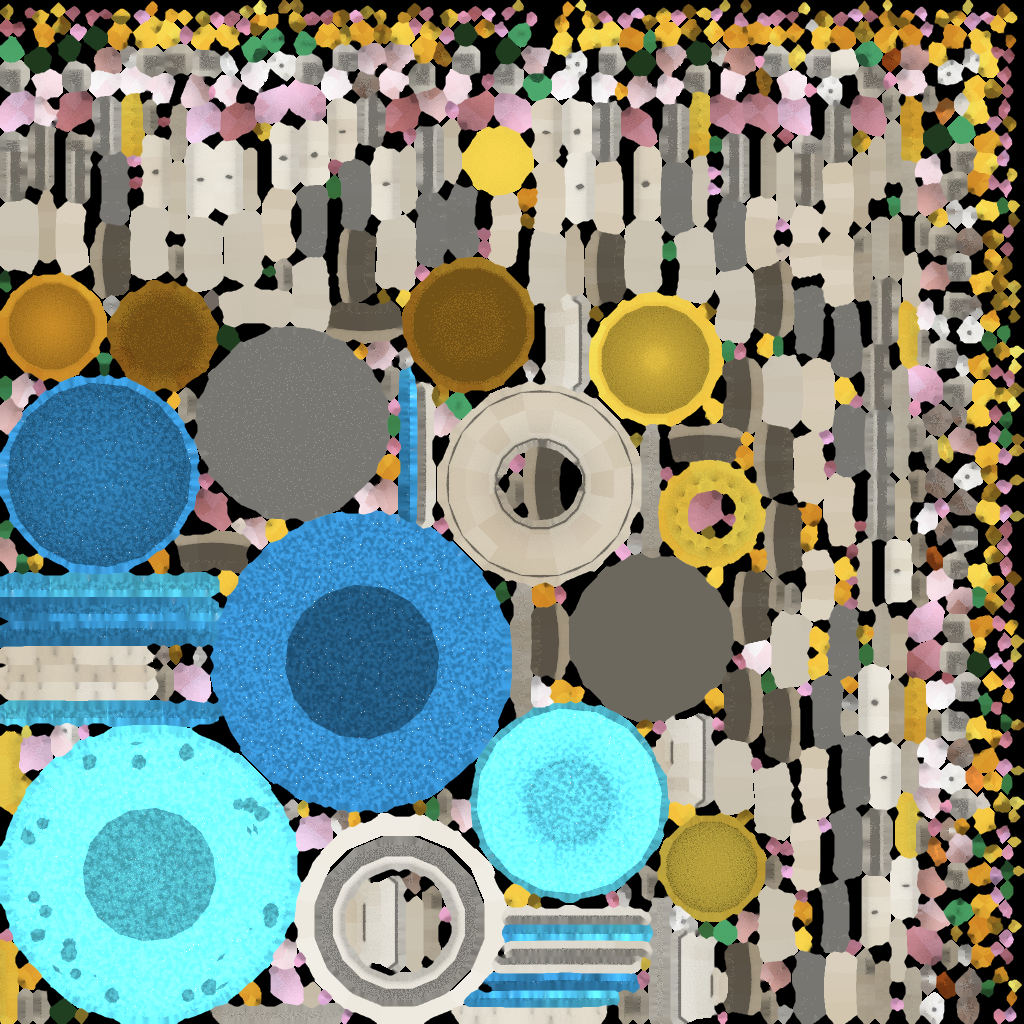
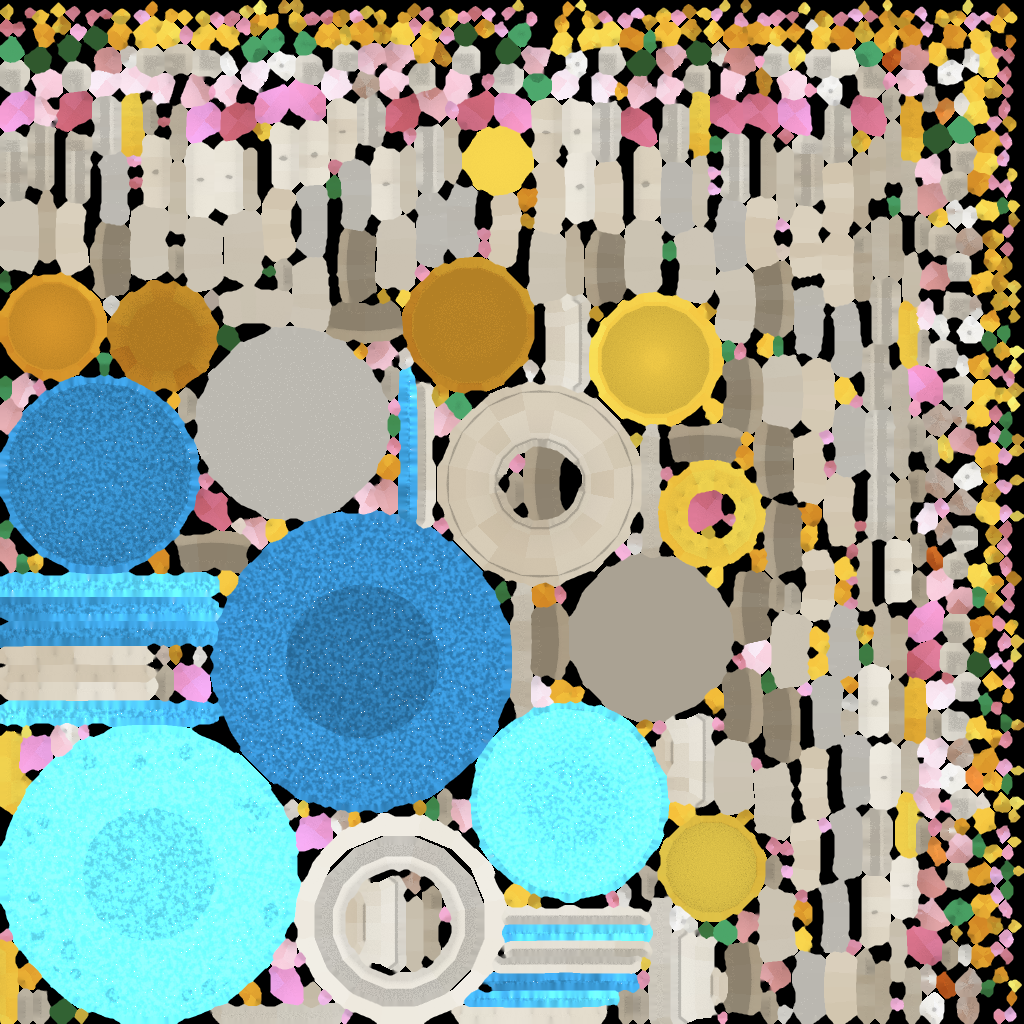
STATION-052: the hub's models uploaded (run 43901523860); a pinker lotus, limestone statues

diff --git a/tools/blender/stations/assets/hub.py b/tools/blender/stations/assets/hub.py
@@ -42,8 +42,9 @@ def made(maker, seed=7):
     return build
 
 
-def piece(name, maker, glow=None, note=""):
-    return dict(name=name, build=made(maker), budget=20000, joints={}, glow={"body_glow": glow} if glow else {}, finalize={"center": False}, notes=note)
+def piece(name, maker, glow=None, note="", **bake):
+    """`bake`: settings for its texture bake other than the usual."""
+    return dict(name=name, build=made(maker), budget=20000, joints={}, glow={"body_glow": glow} if glow else {}, finalize={"center": False, **bake}, notes=note)
 
 
 def gate(name, a, text, sign, banner, glow):
@@ -52,7 +53,7 @@ def gate(name, a, text, sign, banner, glow):
 
 ASSETS = [
     piece("hub_paving", H.paving, note="The plaza's floor: kerb, three rings of slabs, tiled bands, the mosaic and the sunburst."),
-    piece("hub_fountain", lambda rng: H.fountain(rng, cast=False), (150, 220, 255), "The Hatchery Fountain: two pools, the stem and bowl, the lotus. Its falling water is the glow."),
+    piece("hub_fountain", lambda rng: H.fountain(rng, cast=False), (150, 220, 255), "The Hatchery Fountain: two pools, the stem and bowl, the lotus. Its falling water is the glow.", ao_floor=0.78),  # a lighter shade: the petals shadow each other grey
     piece("hub_plinth", lambda rng: H.plinth(rng, 22.5), note="A statue's plinth with its name plate and flowers; the first of eight, 45 degrees apart."),
     *[
         piece(f"hub_shrine_{egg}", lambda rng, q=q, tiles=tiles: H.shrine(rng, S.polar(32.2, q * 90 + 45, 0.3), q * 90 + 45, None, tiles), note=f"The {egg} egg's shrine, where it stands.")

diff --git a/tools/blender/stations/scenes/hub.py b/tools/blender/stations/scenes/hub.py
@@ -80,7 +80,7 @@ def fountain(rng, cast=True):
     for ring, (n, r0, r1, z0, z1, w) in enumerate(((12, 2.8, 6.2, 8.2, 9.6, 2.4), (12, 2.6, 4.9, 8.6, 11.2, 2.0))):
         for i in range(n):
             a = (i + 0.5 * ring) * 360 / n
-            shard(polar(r0, a, z0), polar(r1, a, z1), w, 0.4, ((255, 190, 214), (255, 228, 236))[ring], rng, face=polar(1, a), at=0.45)
+            shard(polar(r0, a, z0), polar(r1, a, z1), w, 0.4, ((255, 150, 192), (255, 208, 224))[ring], rng, face=polar(1, a), at=0.45)
     if cast:
         actor("egg_golden", (0, 0, 9.0), 0, scale=13 / 3.54)
 
